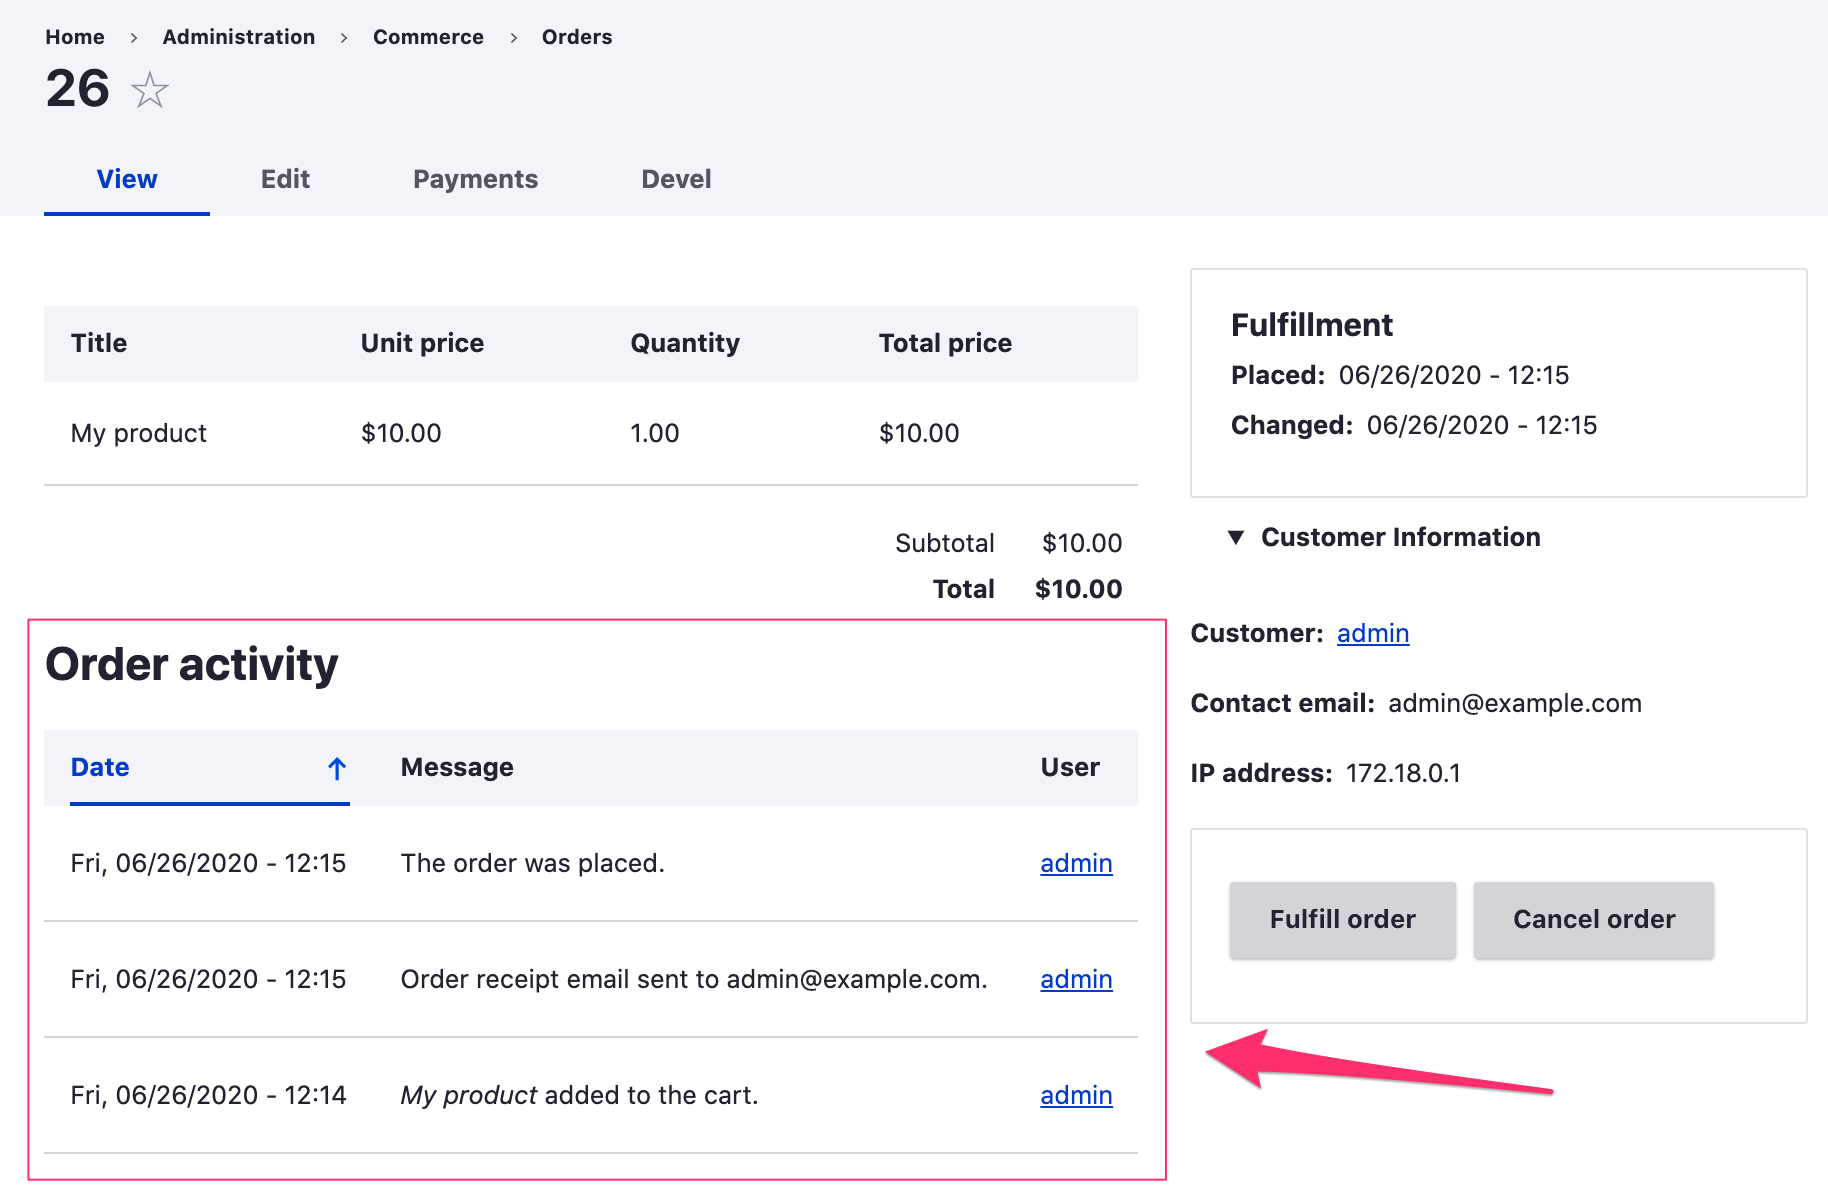
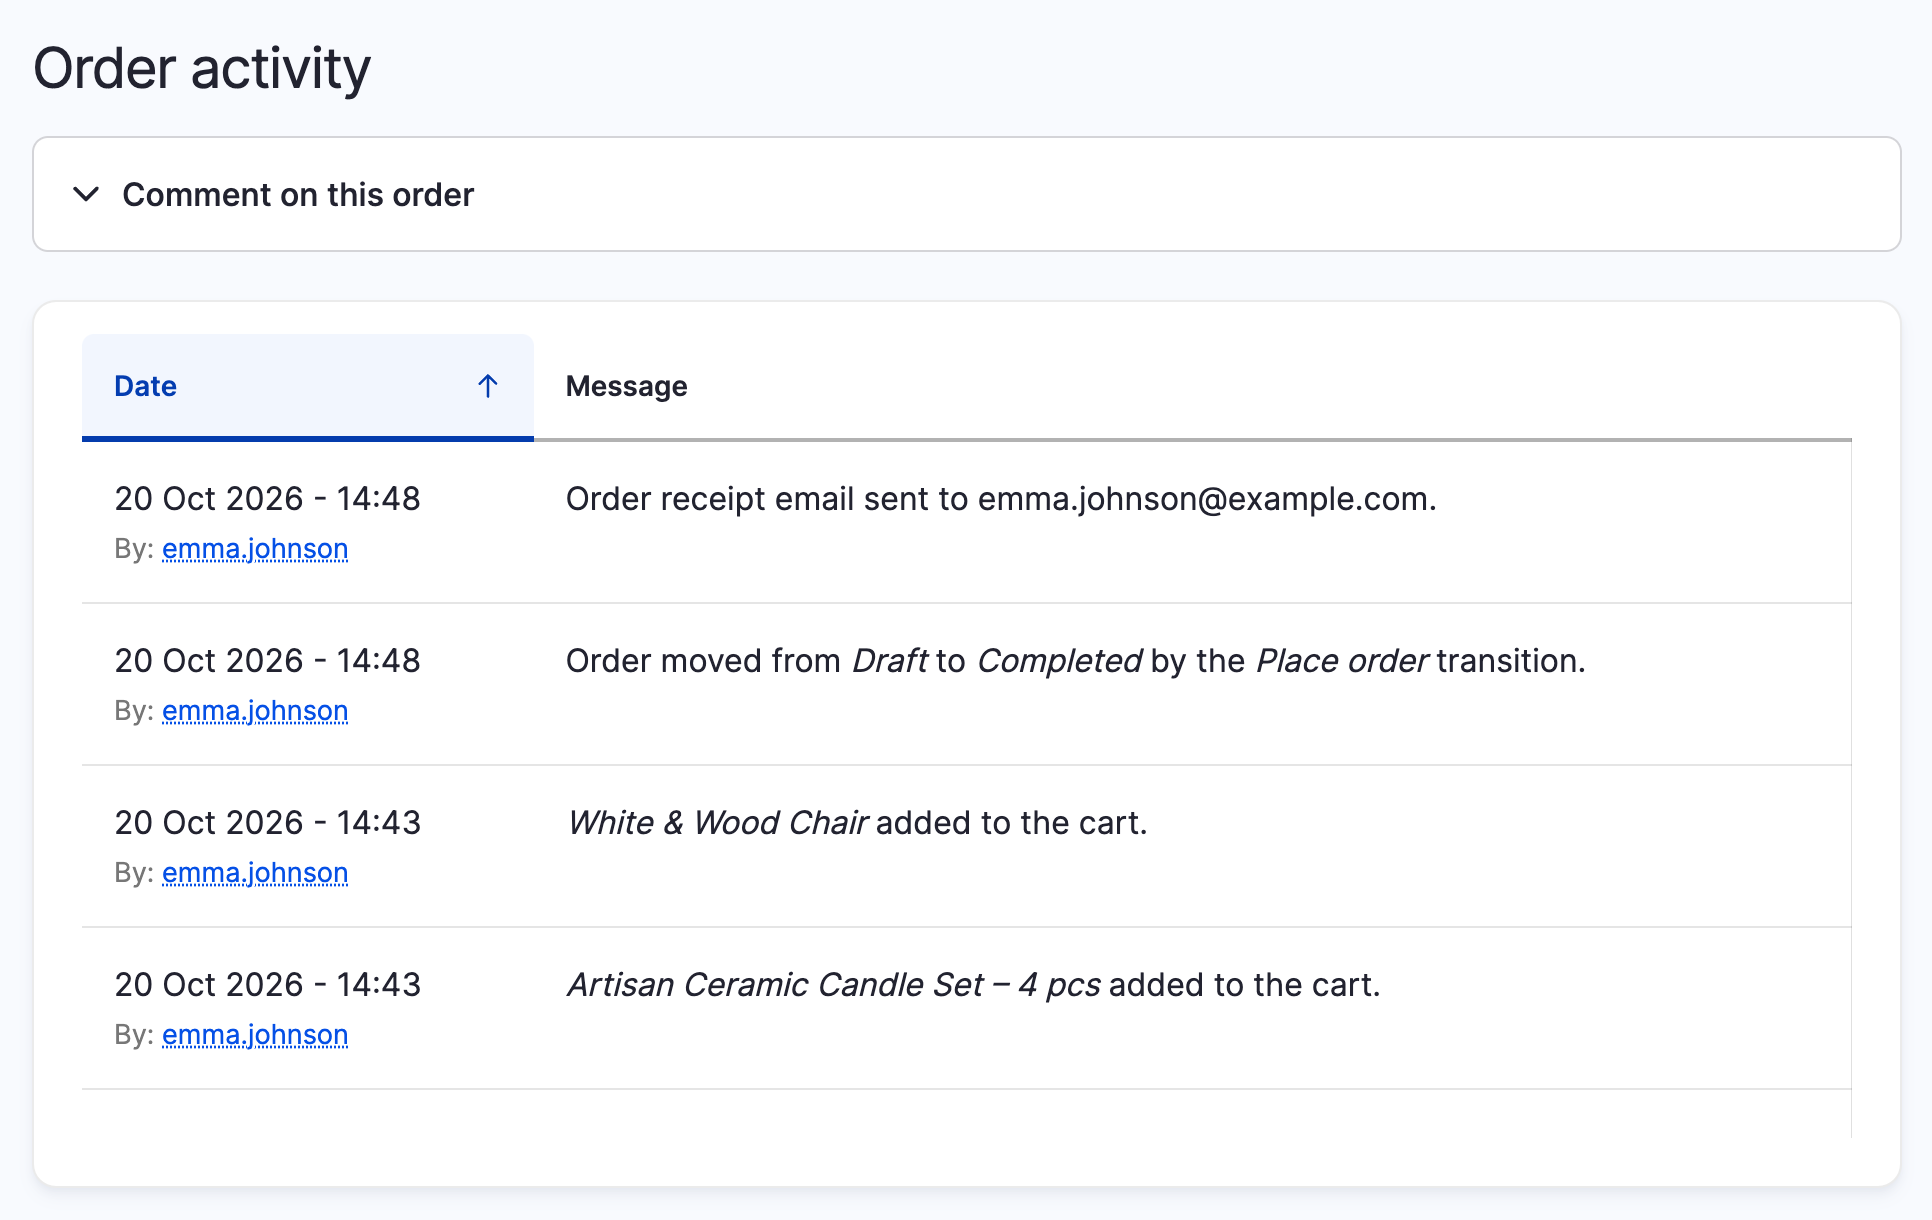
Add the retaken images

diff --git a/.claude/skills/screenshots/seed.php b/.claude/skills/screenshots/seed.php
@@ -98,6 +98,21 @@ foreach ($orders as [$name, $full_name, $placed, $skus, $address]) {
     $order->save();
   }
 }
+// The activity log page: placed orders show the customer adding the items to
+// the cart and placing the order, rather than drush (anonymous) placing them.
+$log_storage = \Drupal::entityTypeManager()->getStorage('commerce_log');
+foreach ($order_storage->loadByProperties(['state' => 'completed']) as $order) {
+  $logs = $log_storage->loadMultipleByEntity($order);
+  if (!array_filter($logs, fn ($log) => $log->getTemplateId() === 'cart_entity_added')) {
+    foreach ($order->getItems() as $item) {
+      $logs[] = $log_storage->generate($order, 'cart_entity_added', ['purchased_entity_label' => $item->label()]);
+    }
+  }
+  foreach ($logs as $log) {
+    $minutes = $log->getTemplateId() === 'cart_entity_added' ? 5 : 0;
+    $log->set('uid', $order->getCustomerId())->set('created', $order->getPlacedTime() - 60 * $minutes)->save();
+  }
+}
 
 // The dashboard shots expand an inbox message, which marks it as read.
 \Drupal::database()->update('commerce_inbox_message')->fields(['state' => 'unread'])->execute();

diff --git a/docs/v2/developer-guide/activity-log/getting-started.md b/docs/v2/developer-guide/activity-log/getting-started.md
@@ -19,9 +19,11 @@ When the Commerce Log module is installed, logs will be automatically generated 
 
 ![Order activity view](../images/order-activity-1.png)
 
-This example order has had 3 logs created. The first (bottom-most) entry was created when the customer added an item to his cart. Logs are also created when items are removed from a cart. 
+This example order has had 4 logs created. The first two (bottom-most) entries were created when the customer added items to their cart. Logs are also created when items are removed from a cart.
 
-The next two logs were created when the order was placed. All the default Order state transition events are logged: *Placed*, *Validated*, *Fulfilled*, and *Canceled*. For more information on state transition events, see the [State machine documentation](../core/core.md#state-machine).
+The next two logs were created when the order was placed: one for the state transition, and one for the order receipt email. Every order state transition is logged with its label and the states it moved the order from and to. For more information on state transition events, see the [State machine documentation](../core/core.md#state-machine).
+
+Administrators can also add comments to the order activity, with the **Comment on this order** form above the logs.
 
 The "Order activity" listing is a Views block that can be modified through the Admin UI like any other [View].
 
